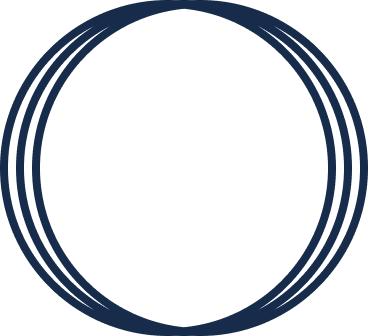
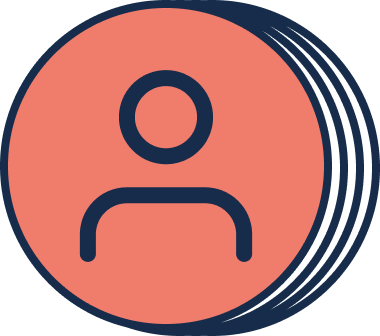
Bring in higher resolution assets

diff --git a/startScreen/src/commonMain/kotlin/com/solanamobile/krate/startscreen/StartScreen.kt b/startScreen/src/commonMain/kotlin/com/solanamobile/krate/startscreen/StartScreen.kt
@@ -1,6 +1,5 @@
 package com.solanamobile.krate.startscreen
 
-import androidx.compose.foundation.Image
 import androidx.compose.foundation.background
 import androidx.compose.foundation.clickable
 import androidx.compose.foundation.layout.Box
@@ -16,13 +15,9 @@ import androidx.compose.material.Text
 import androidx.compose.runtime.Composable
 import androidx.compose.runtime.collectAsState
 import androidx.compose.runtime.getValue
-import androidx.compose.runtime.mutableStateOf
-import androidx.compose.runtime.remember
-import androidx.compose.runtime.rememberCoroutineScope
 import androidx.compose.ui.Alignment
 import androidx.compose.ui.Modifier
 import androidx.compose.ui.graphics.Color
-import androidx.compose.ui.graphics.ImageBitmap
 import androidx.compose.ui.graphics.StrokeJoin
 import androidx.compose.ui.graphics.drawscope.Stroke
 import androidx.compose.ui.text.ExperimentalTextApi
@@ -33,13 +28,11 @@ import cafe.adriel.voyager.core.screen.Screen
 import cafe.adriel.voyager.navigator.LocalNavigator
 import cafe.adriel.voyager.navigator.currentOrThrow
 import com.solanamobile.krate.extension.NavScreenProvider
-import com.solanamobile.krate.extension.compositionlocal.LocalResourceLocator
 import com.solanamobile.krate.extension.getScreenModel
 import com.solanamobile.krate.extension.ui.ResourceImage
 import com.solanamobile.krate.startscreen.ui.AnimatedArrows
 import com.solanamobile.krate.startscreen.viewmodel.StartScreenViewModel
 import com.solanamobile.krate.startscreen.viewmodel.StartScreenViewState
-import kotlinx.coroutines.launch
 
 class StartScreen: Screen {
 
@@ -86,7 +79,7 @@ fun StartScreenContents(
         Box(
             modifier = Modifier
                 .fillMaxWidth()
-                .height(210.dp),
+                .height(220.dp),
             contentAlignment = Alignment.BottomCenter
         ) {
             ResourceImage(
